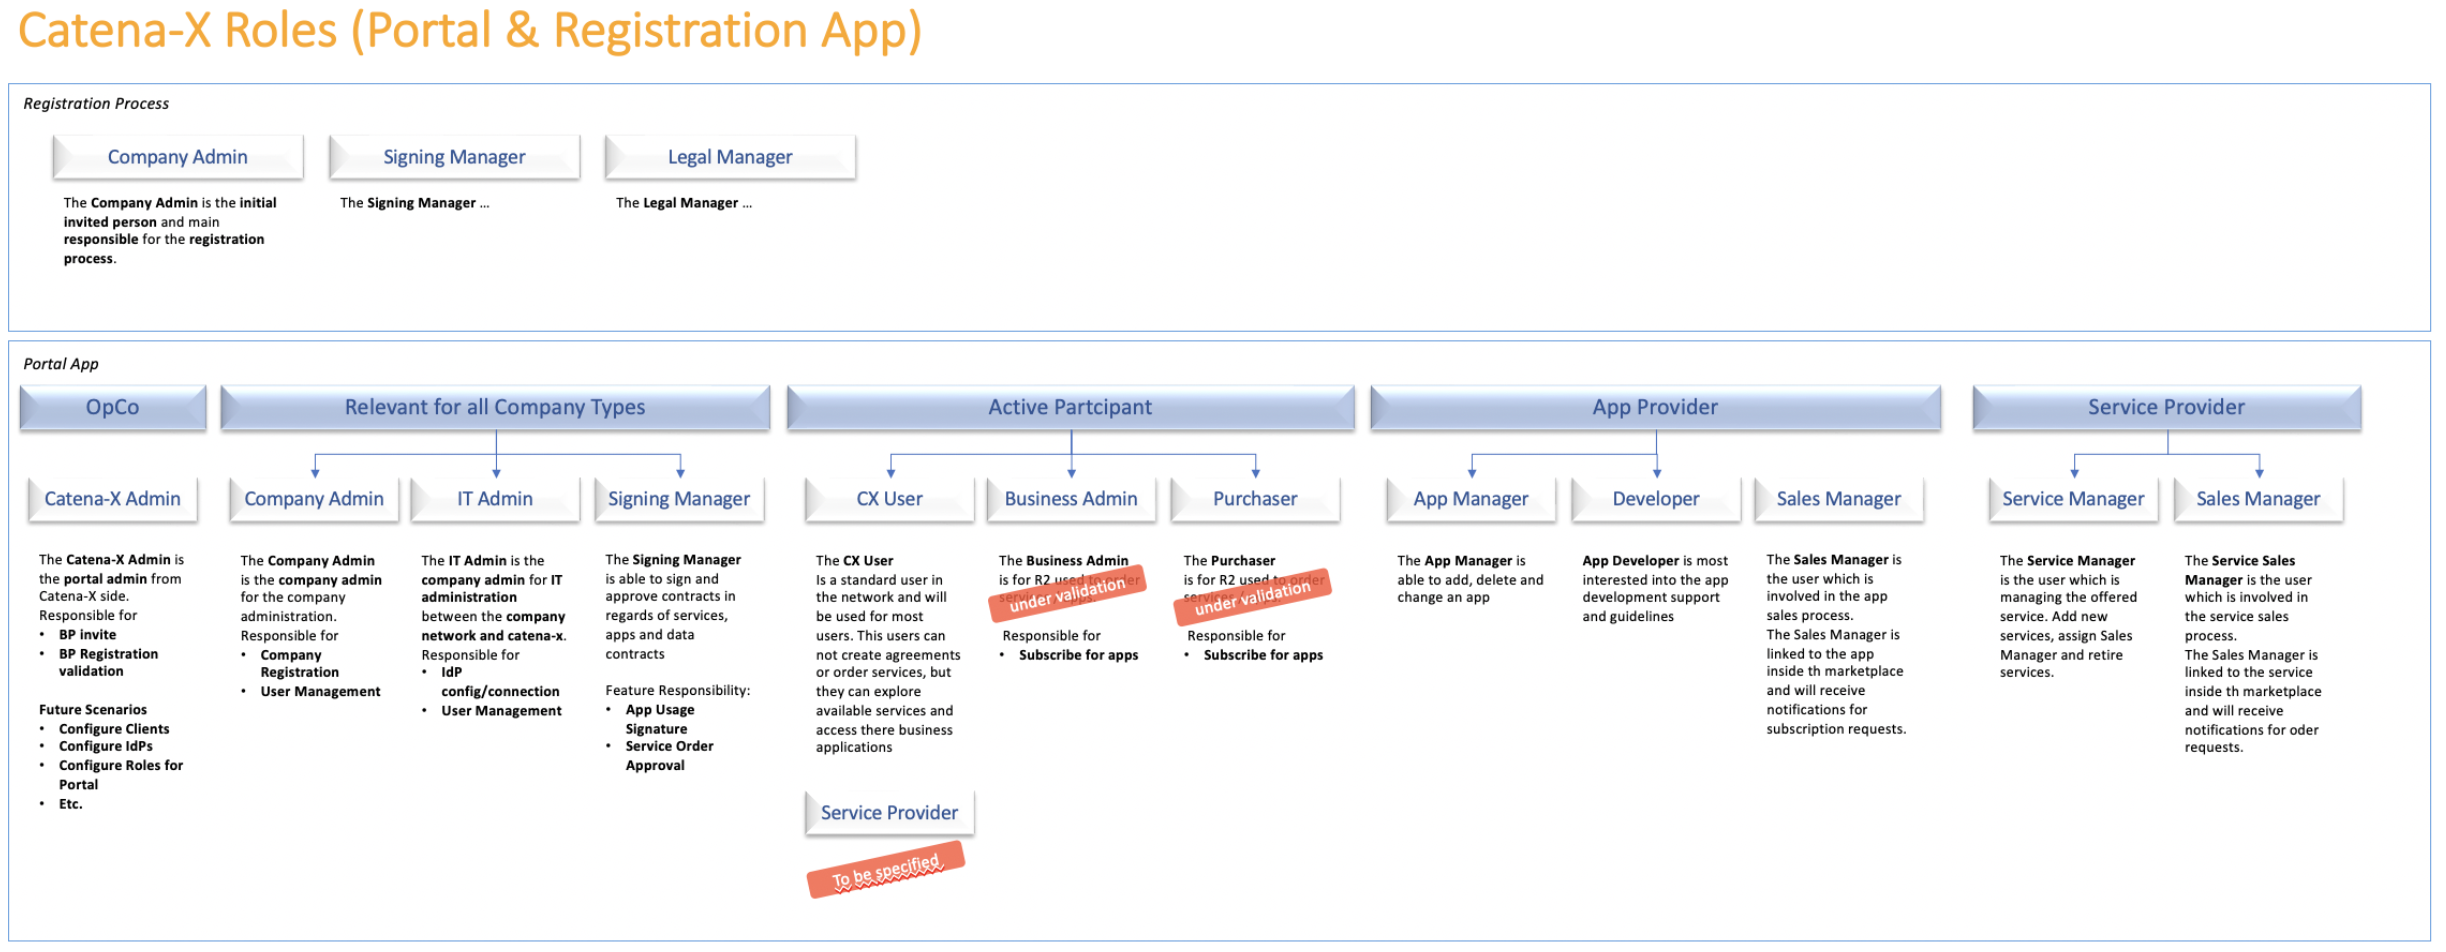
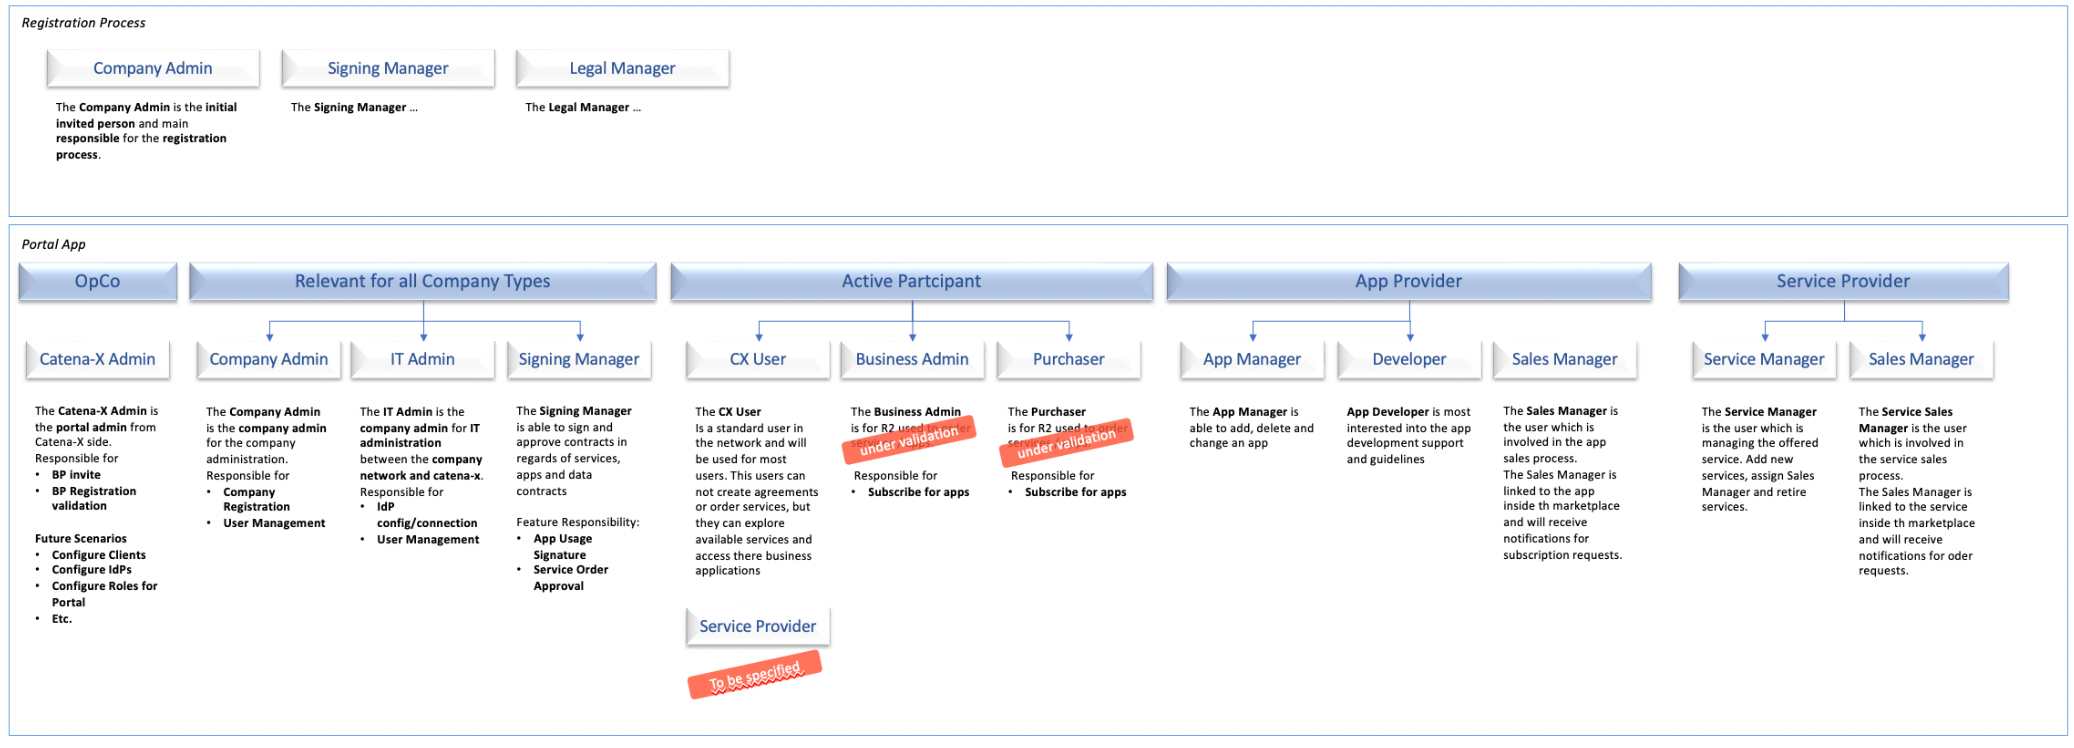
chore(docu): adjust role and rights images
Refs: CPLP-3059

Changed region(s): [[0.0, 0.0, 1.0, 1.0], [0.3086, 0.8302, 0.4012, 0.9532], [0.9875, 0.0, 1.0, 0.0307]]

diff --git a/docs/technical documentation/06. Roles & Rights Concept.md b/docs/technical documentation/06. Roles & Rights Concept.md
@@ -100,35 +100,35 @@ This role concept covers all roles related to
 
 #### 2.5.1 Technical User (portal internal)
 
-![TechnicalUser](/docs/static/technical-user.png)
+![TechnicalUser](/docs/static/technical-user-overview.png)
 
 <br>
 <br>
 
 #### 2.5.2 Registration Application
 
-![RegistrationApplication](/docs/static/registration-application.png)
+![RegistrationApplication](/docs/static/registration-application-overview.png)
 
 <br>
 <br>
 
 #### 2.5.3 Portal Application
 
-![PortalApplication](/docs/static/portal-application.png)
+![PortalApplication](/docs/static/portal-application-overview.png)
 
 <br>
 <br>
 
 #### 2.5.3b Technical User Accounts
 
-![TechnicalUserAccounts](/docs/static/technical-user-accounts.png)
+![TechnicalUserAccounts](/docs/static/technical-user-accounts-overview.png)
 
 <br>
 <br>
 
 #### 2.5.4 Managed Wallets
 
-![ManagedWallets](/docs/static/managed-wallets.png)
+![ManagedWallets](/docs/static/managed-wallets-overview.png)
 
 <br>
 <br>
@@ -149,7 +149,7 @@ For the BPDM Pools READ rights are given to all CX members.
 
 WRITE into the POOL "add_company_data" is only allowed for the platform owner/ operator and (if integrated) possible service providers of BPDM cleanup services.
 
-![BPDM](/docs/static/bpdm.png)
+![BPDM](/docs/static/bpdm-pool.png)
 <br>
 * Technical User is the corresponding bpdm data provider (operator or/and service provider; no platform customer)
 
@@ -158,7 +158,7 @@ WRITE into the POOL "add_company_data" is only allowed for the platform owner/ o
 
 #### 2.5.6 BPDM Gate
 
-![BPDMGate](/docs/static/bpdm-gate.png)
+![BPDMGate](/docs/static/bpdm-gate-overview.png)
 
 <br>
 <br>
